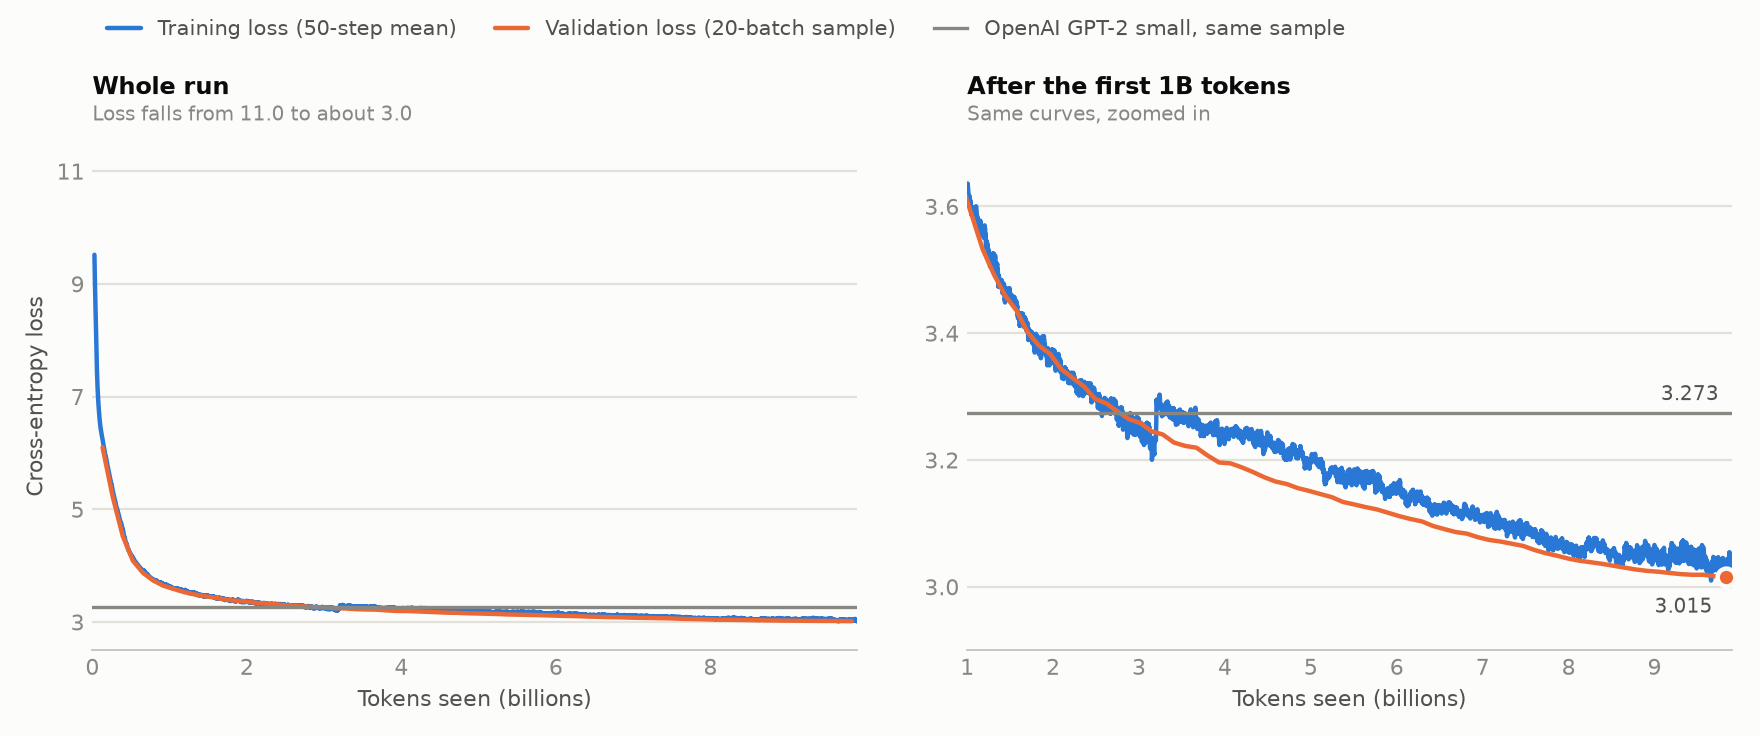
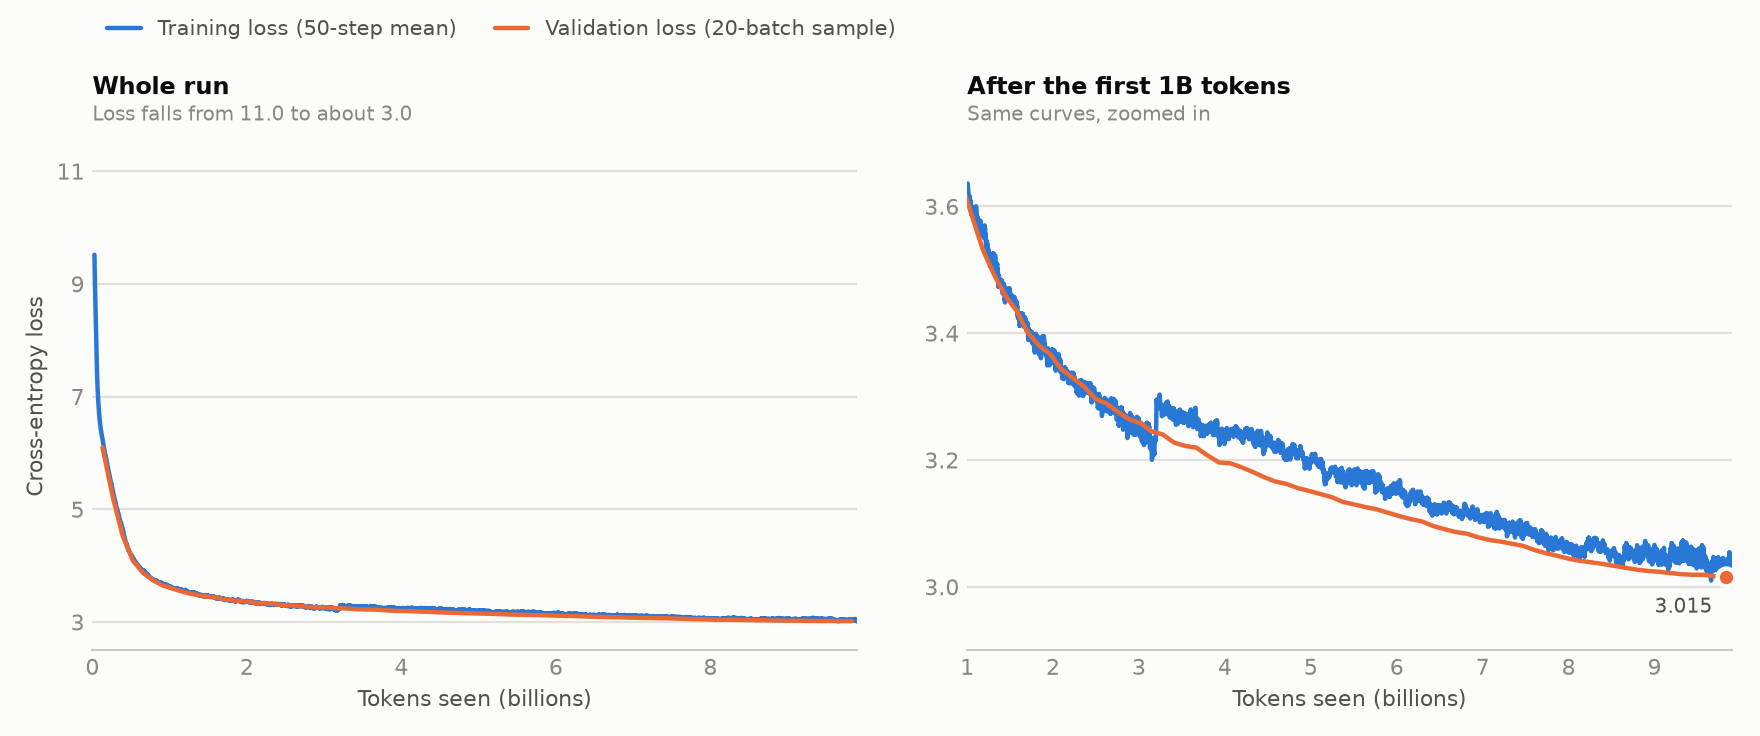
Drop the OpenAI comparison and the unproven cause from the pretraining write-up

Changed region(s): [[0.0625, 0.8125, 0.4688, 0.8438], [0.5312, 0.0312, 0.7812, 0.0625], [0.9375, 0.5312, 0.9688, 0.5625]]

diff --git a/pretraining/README.md b/pretraining/README.md
@@ -22,28 +22,19 @@ file on one NVIDIA H100 (80 GB).
 
 Training loss is a 50-step mean. Validation loss is the periodic sample: the
 same first 20 batches (1,280 sequences) of the validation file, scored every
-250 steps. The grey line is OpenAI's released GPT-2 small scored on that same
-sample.
+250 steps.
 
 ![Learning rate, gradient norm and throughput](plots/training_dynamics.png)
 
 ## What the run shows
 
-- **It beats the released GPT-2 small on this data.** On the 1,280-sequence
-  validation sample the run reaches 3.015 against 3.273 for OpenAI's weights,
-  and passes them after about 2.9B tokens. OpenAI's model was not trained on
-  FineWeb-Edu, so this is a comparison on this run's home ground rather than a
-  claim of a better model in general.
 - **Loss was still falling at the end.** The validation sample went from
   3.020 to 3.015 over the last 1,000 steps, even with the learning rate near
   its floor, so more tokens would likely help.
 - **No sign of overfitting.** Training loss ends at 3.028 against a final
   validation loss of 3.026, as expected from a single pass.
-- **Training loss steps up by about 0.03 at 3.2B tokens, and that is the
-  data.** Validation loss does not move there and the run did not pause. The
-  training file is read in order, and OpenAI's fixed weights also score the
-  training text after that point 0.01 to 0.04 higher than the text before it,
-  so the later text is slightly harder.
+- **Training loss steps up by about 0.03 at 3.2B tokens.** Validation loss
+  does not move there and the run did not pause. The cause is not established.
 - **Optimisation was stable.** The gradient norm starts near 15, drops to
   about 1 within 100 steps, and settles around 0.29 after the first 1B tokens.
   Clipping at 1.0 was active on 1.6% of steps, 99% of them in the first 1,000.
@@ -60,10 +51,6 @@ sample.
   6e-4, then follows a cosine decay to 6e-5. Gradients are clipped at 1.0.
 - **Model:** dropout 0, compiled with `torch.compile`.
 - **Seed:** 1337.
-
-The GPT-2 comparison was measured afterwards with this repository's own
-evaluation code on a local copy of the validation file, built by the same
-`preprocess.py` command as the one the run used.
 
 ## Reproducing
 
